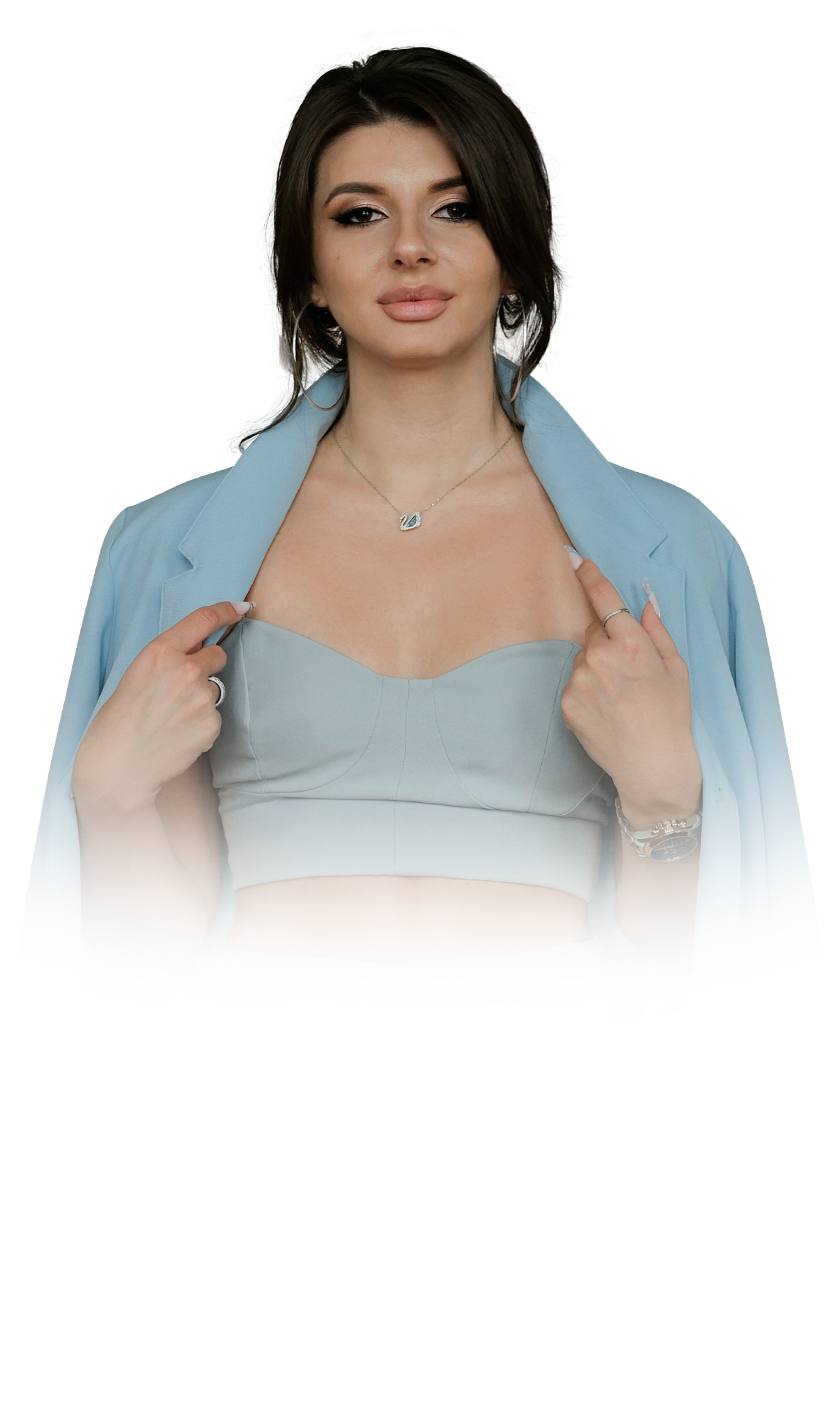
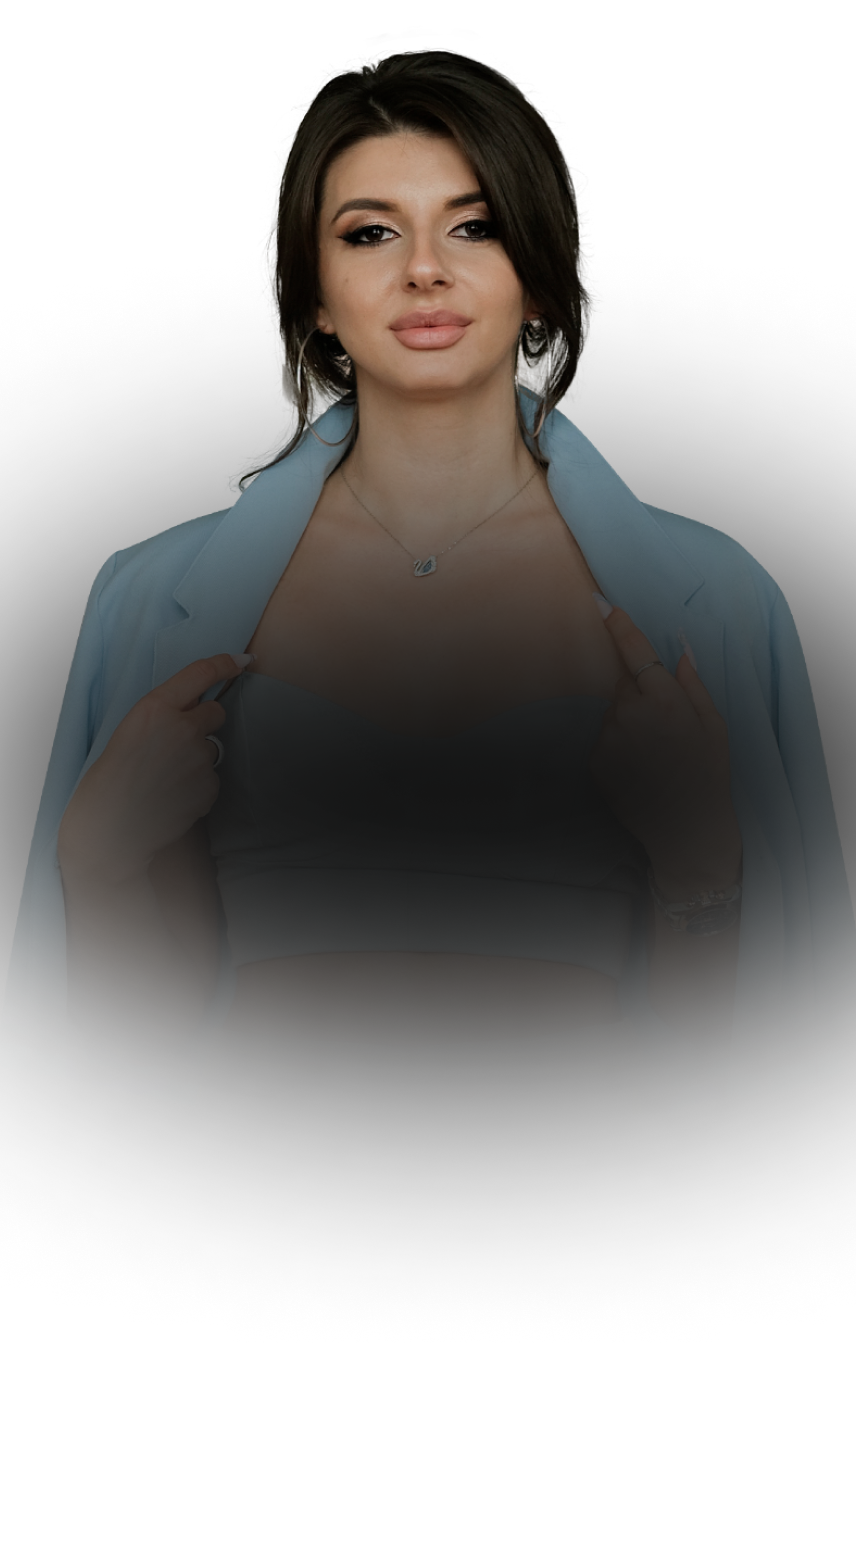
Add files via upload

diff --git a/assets/css/main.css b/assets/css/main.css
@@ -19,15 +19,13 @@ body {
     background-color: #000000;
     color: white;
     margin: 0 auto;
-    background-image: url(../images/back-image.png);
-    background-repeat: no-repeat;
-    background-position: top center;
+
 }
 .main {
-    background-image: url(../images/yuli-image.png);
+    background-image: url(../images/back-image.png);
     background-repeat: no-repeat;
-    background-position: 50% 2%;
-    background-size: 428px 706px;
+    background-size: 428px ;
+    background-position: top center;
     overflow: hidden;
 }
 .container {
@@ -323,7 +321,7 @@ body {
     padding: 10px 20px;
     background-color: #FF7898;
     display: block;
-    margin: 0 auto;
+    margin: 48px auto 0;
     text-transform:none;
 }
 
@@ -340,7 +338,7 @@ body {
     background-clip: text;
     font-size: 40px;
     text-align: center;
-    margin: 41px 0 0 0
+    margin: 17px 0 0 0
 }
 .salon-desc {
     font-family: 'Montserrat';
@@ -358,11 +356,17 @@ body {
     justify-content: center;
     width: 336px;
     margin: 25px auto 0;
+    border-radius: 10px;
+}
+.salon-image img {
+    border-radius: 10px 10px 10px 10px;
+    overflow: hidden;
 }
 .salon-image .access {
     position: absolute;
     bottom: -30px;
     left: -12px;
+    border-radius: 10px 10px 10px 10px;
 }
 
 .salon-desc-title, .salon-desc-subtitle {
@@ -669,7 +673,7 @@ body {
     margin: 0;
     position: absolute;
     top: 71px;
-    left: 35px;
+    left: 21px;
     font-family: 'Bebas Neue';
     font-weight: 400;
     font-size: 100px;
